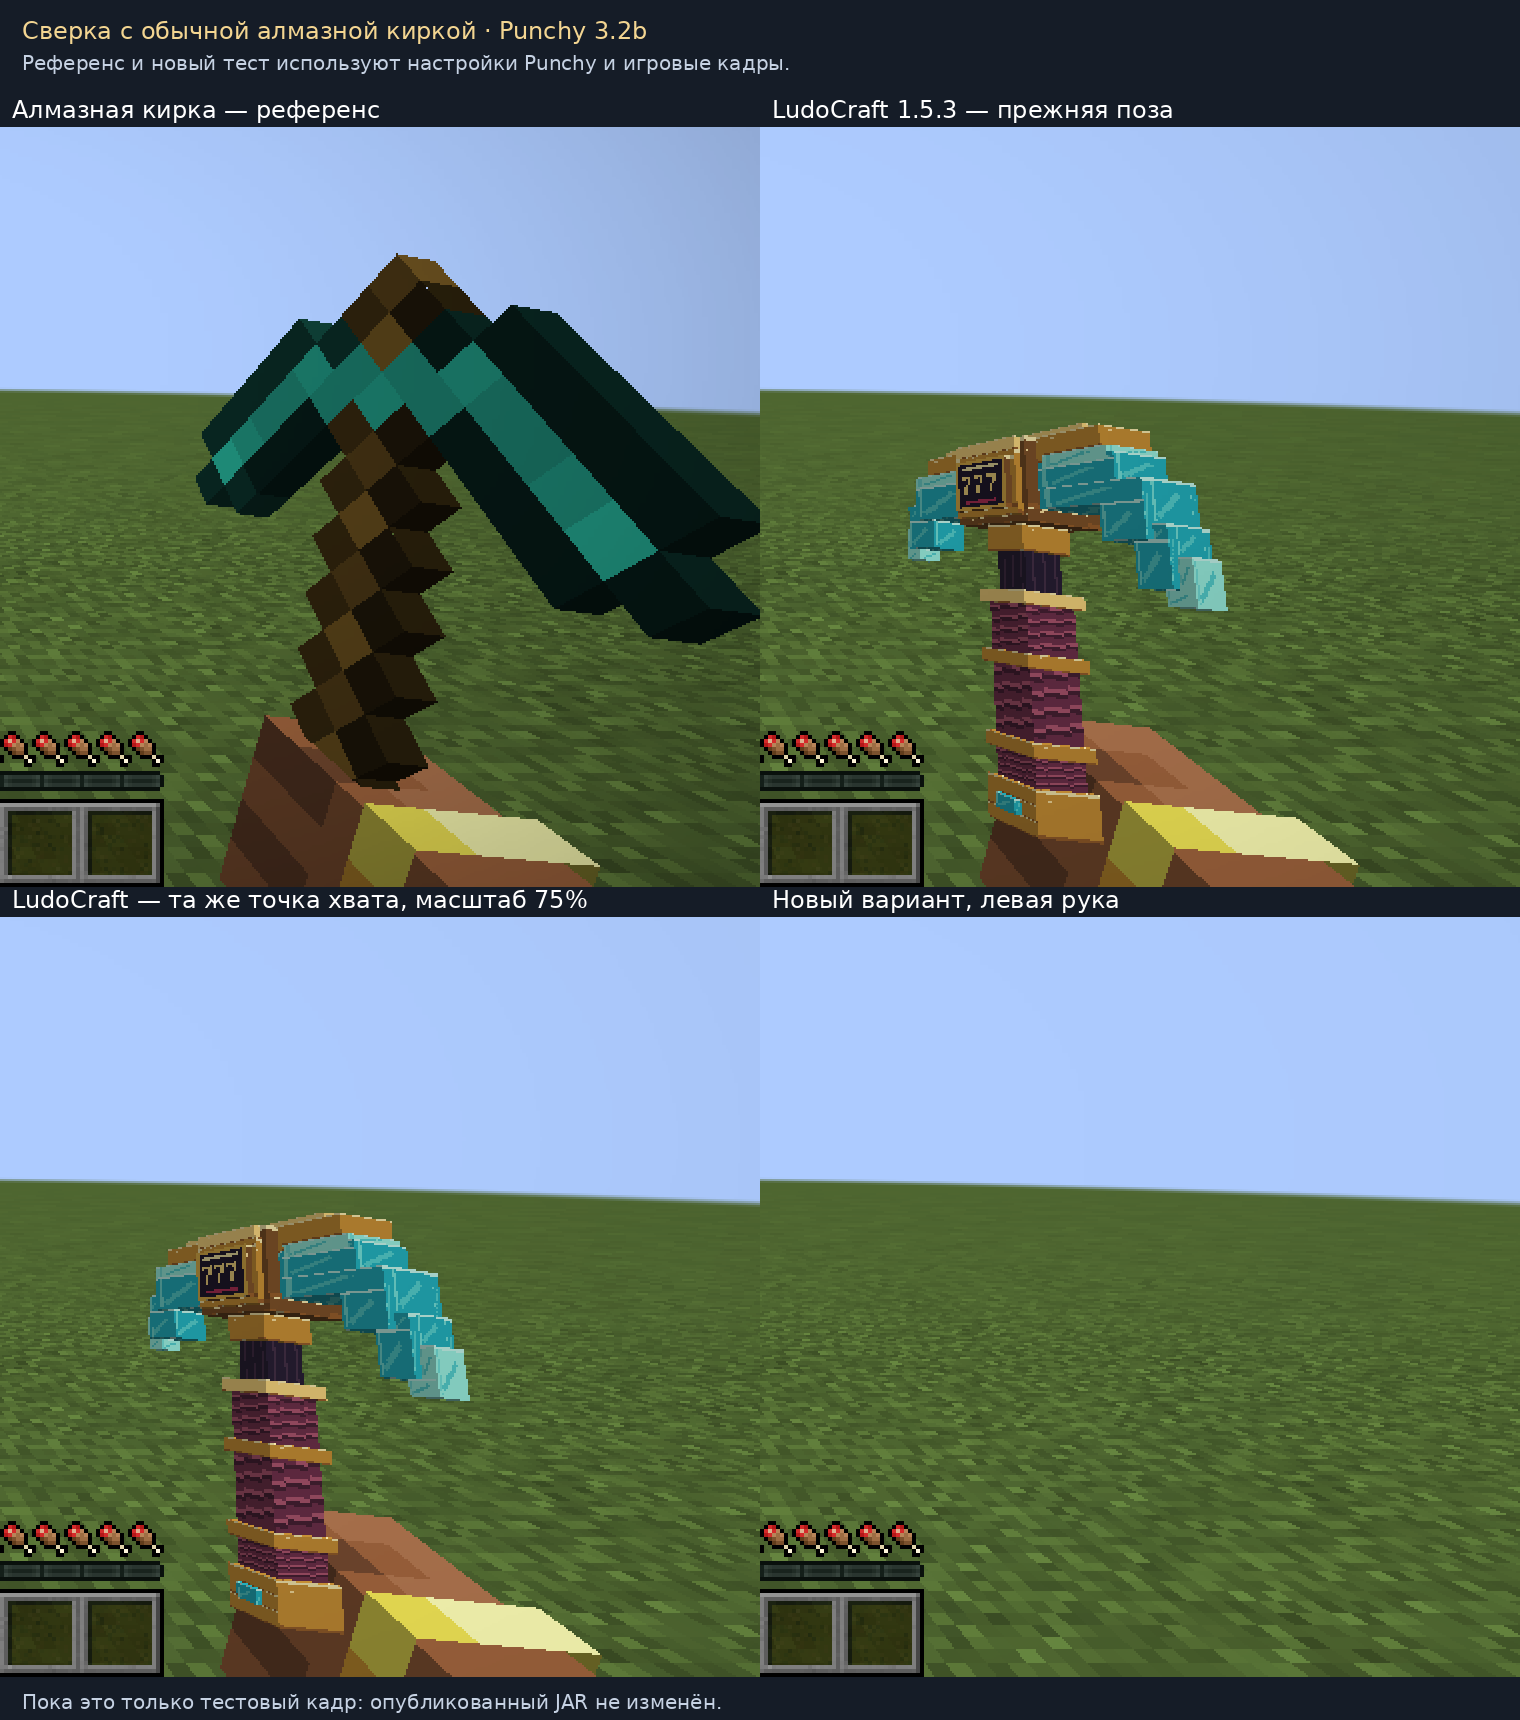
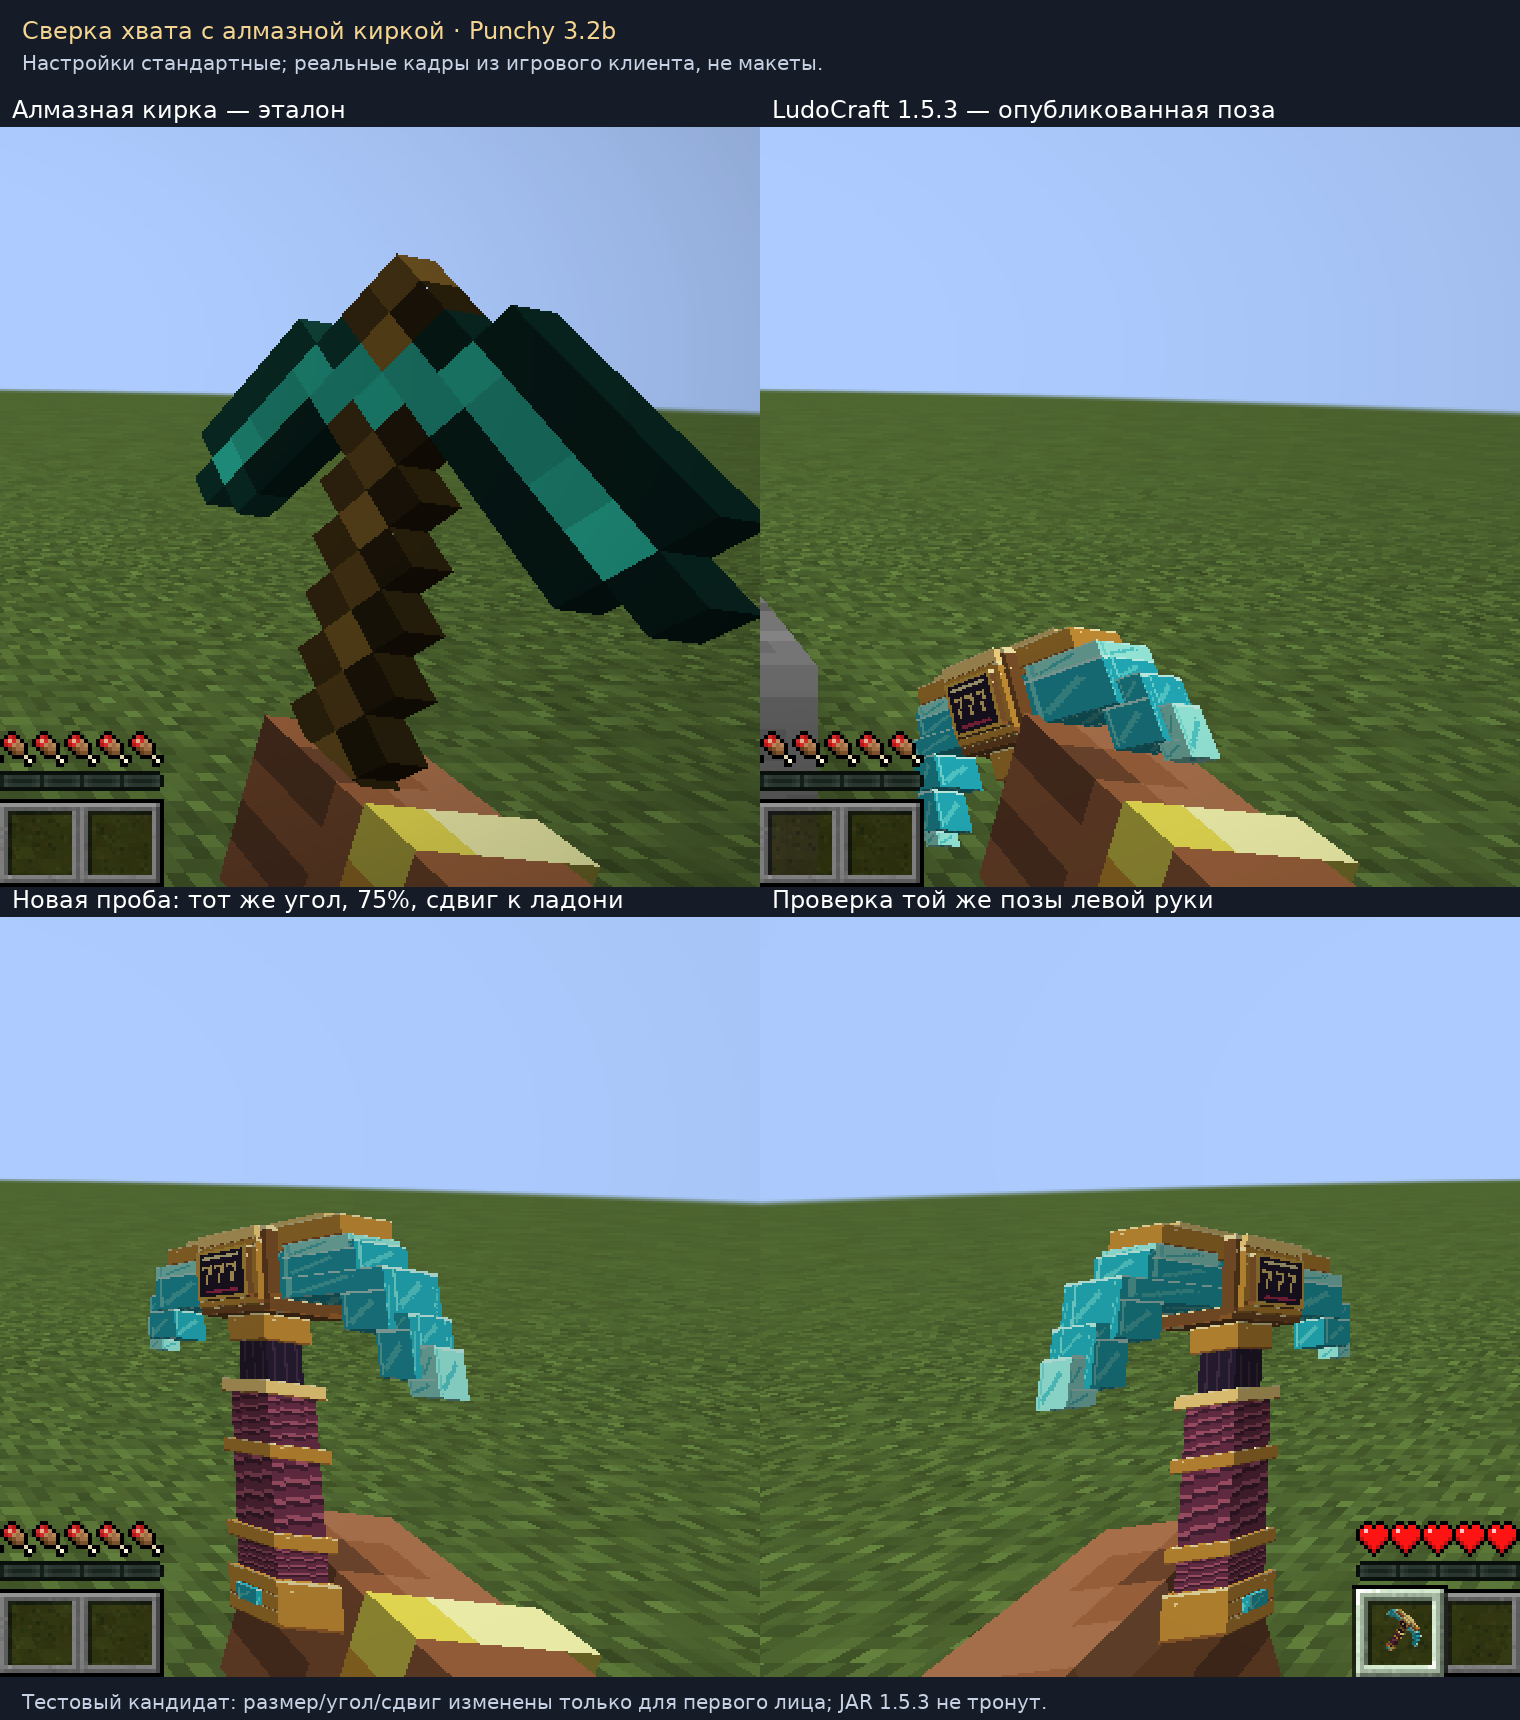
Prepare LudoCraft 1.5.4 diamond-style Punchy grip release

diff --git a/tools/render_grip_review.py b/tools/render_grip_review.py
@@ -1,18 +1,23 @@
-"""Side-by-side crops from actual Punchy game frames; no retouching of the rendered item."""
+"""Compare the published 1.5.3 frame against genuine vanilla and dev-candidate Punchy frames."""
 from pathlib import Path
+import os
 from PIL import Image, ImageDraw, ImageFont
 root = Path(__file__).resolve().parents[1] / 'docs/previews/punchy-grip-review'
+previous = Path(__file__).resolve().parents[1] / 'docs/previews/v1.5.3/punchy/punchy-after-first-right.png'
 f=ImageFont.truetype('/usr/share/fonts/truetype/dejavu/DejaVuSans.ttf',24)
 small=ImageFont.truetype('/usr/share/fonts/truetype/dejavu/DejaVuSans.ttf',20)
 sheet=Image.new('RGB',(1520,1720),'#151c27');d=ImageDraw.Draw(sheet)
-d.text((22,16),'Сверка с обычной алмазной киркой · Punchy 3.2b',font=f,fill='#f3d591')
-d.text((22,51),'Референс и новый тест используют настройки Punchy и игровые кадры.',font=small,fill='#c6d2e3')
-rows=[('vanilla-reference','Алмазная кирка — референс'),('released','LudoCraft 1.5.3 — прежняя поза'),('match-diamond-size','LudoCraft — та же точка хвата, масштаб 75%'),('match-diamond-size-left','Новый вариант, левая рука')]
-for i,(name,label) in enumerate(rows):
+d.text((22,16),'Сверка хвата с алмазной киркой · Punchy 3.2b',font=f,fill='#f3d591')
+d.text((22,51),'Настройки стандартные; реальные кадры из игрового клиента, не макеты.',font=small,fill='#c6d2e3')
+frames=[('punchy-grip-vanilla-reference.png','Алмазная кирка — эталон',False),
+        (previous,'LudoCraft 1.5.3 — опубликованная поза',False),
+        ('punchy-grip-match-diamond-size.png','Новая проба: тот же угол, 75%, сдвиг к ладони',False),
+        ('punchy-grip-match-diamond-size-left.png','Проверка той же позы левой руки',True)]
+for i,(filename,label,left) in enumerate(frames):
  x=i%2*760;y=95+i//2*790
  d.text((x+12,y),label,font=f,fill='white')
- im=Image.open(root/f'punchy-grip-{name}.png').convert('RGB')
- crop=im.crop((580,160,960,540))
+ im=Image.open(filename if isinstance(filename,Path) else root/filename).convert('RGB')
+ crop=im.crop((0 if left else 580,160,380 if left else 960,540))
  sheet.paste(crop.resize((760,760),Image.Resampling.NEAREST),(x,y+32))
-d.text((22,1690),'Пока это только тестовый кадр: опубликованный JAR не изменён.',font=small,fill='#c6d2e3')
+d.text((22,1690),'Тестовый кандидат: размер/угол/сдвиг изменены только для первого лица; JAR 1.5.3 не тронут.',font=small,fill='#c6d2e3')
 sheet.save(root/'grip-review.png')

diff --git a/docs/previews/punchy-grip-review/README.md b/docs/previews/punchy-grip-review/README.md
@@ -1,7 +1,9 @@
-# Сверка хвата с алмазной киркой — проба 75%, не релиз
+# Проверенная поза кирки для Punchy 3.2b
 
-- Кадры сняты в Minecraft Java 1.21.1, NeoForge 21.1.265 и Punchy 3.2b с настройками по умолчанию.
-- `punchy-grip-vanilla-reference.png` — алмазная кирка; `punchy-grip-released.png` — LudoCraft 1.5.3; `punchy-grip-match-diamond-size.png` — проба с тем же углом и глубиной, объёмная модель уменьшена до 75% и сдвинута чуть внутрь, к ладони; `punchy-grip-match-diamond-size-left.png` — левая рука.
-- Снимки показывают настоящую модель в игровом клиенте. Профиль Punchy стандартный; изменение касается только визуального положения/масштаба модели LudoCraft (75%, horizontal −2 model px).
-- Новый JAR публикуется лишь после прохождения штатных проверок модели и обоих игровых клиентов.
-- Это автоматическое сравнение в изолированном клиенте, не ручная проверка полного FTB Evolution. Шейдеры, пользовательские настройки Punchy и все фазы анимаций не проверялись.
+Эти автоматические кадры показывают сравнение опубликованной позы 1.5.3 с обычной алмазной киркой и точной позой, вошедшей в исправление 1.5.4. Minecraft Java 1.21.1, NeoForge 21.1.265, Punchy 3.2b, стандартные настройки.
+
+- `punchy-grip-vanilla-reference.png` — алмазная кирка.
+- `punchy-grip-match-diamond-size.png` и `...-left.png` — новая 3D-модель в правой/левой руке.
+- Воспроизведён ванильный угол, а объёмная головка уменьшена до 75% и смещена на 2 модельных пикселя внутрь, чтобы она целиком оставалась в кадре и рукоять была у ладони.
+- `punchy-grip-profiles.json` содержит фактические профили Punchy и first-person transforms, снятые в клиенте.
+- Сборный лист использует реальные игровые кадры без ретуши. В `docs/previews/v1.5.4/README.md` — релиз, дополнительная проверка добычи/восстановления и её ограничения.
